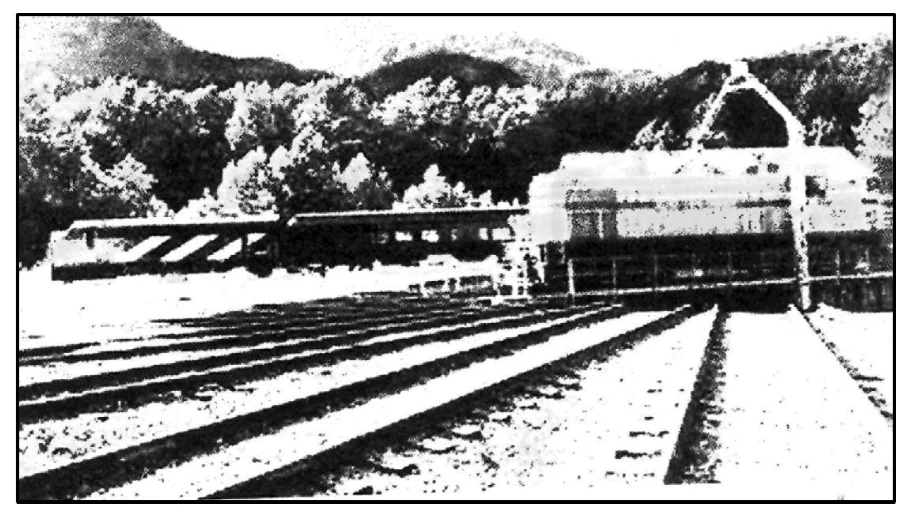
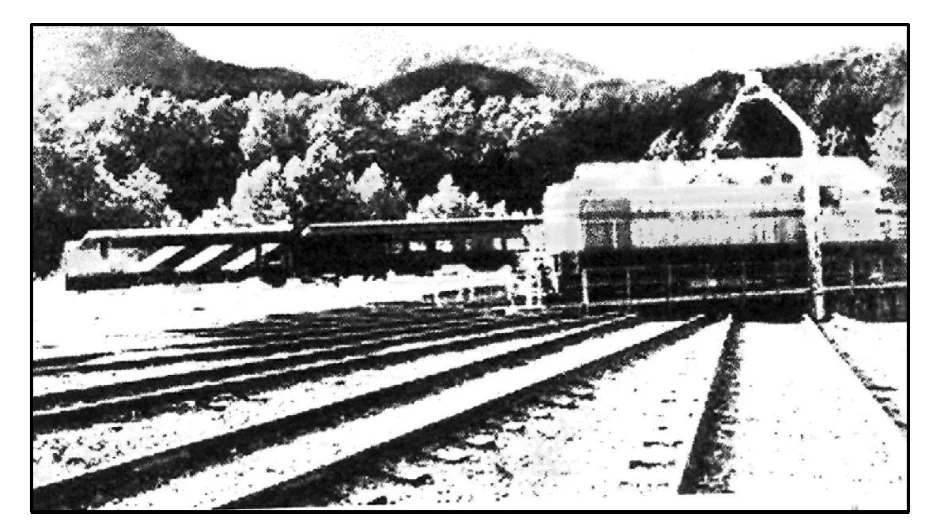
WIP: papers in progress
Claude-Session: https://claude.ai/code/session_01W7XZGjmttugF6fo92Sv419

diff --git a/content/2026/65-3-3.md b/content/2026/65-3-3.md
@@ -1,0 +1,251 @@
+---
+year: 2026
+code: 65/3/3
+series: SR3PQ
+title: CBSE Class XII Board Examination 2026 · Q.P. Code 65/3/3
+questions: 38
+source: Official CBSE question paper and marking scheme
+---
+
+=== 1 = 65/3/1#15
+
+=== 2 = 65/3/1#16
+
+=== 3 | 3d | 1 | mcq
+@topic Direction cosines and ratios
+Direction ratios of lines $l_1$ and $l_2$ respectively are $\langle 1, 0, 0 \rangle$ and $\langle 0, -1, 0 \rangle$. The direction ratios of the line perpendicular to both $l_1$ and $l_2$ are :
+(A) $\langle 1, 1, 0 \rangle$
+(B) $\langle 0, 0, -1 \rangle$
+(C) $\langle 1, 1, 1 \rangle$
+(D) $\langle 1, 0, -1 \rangle$
+--- ans B
+A line perpendicular to both is parallel to $\vec{b}_1 \times \vec{b}_2$ with $\vec{b}_1 = \hat{i}$, $\vec{b}_2 = -\hat{j}$:
+$$\hat{i} \times (-\hat{j}) = -\hat{k}$$
+So the direction ratios are $\langle 0, 0, -1 \rangle$. (Check: $\langle 0, 0, -1 \rangle$ is perpendicular to both given directions; options (A), (C), (D) are not perpendicular to $\langle 1, 0, 0 \rangle$.)
+
+=== 4 = 65/3/1#18
+
+=== 5 | itf | 1 | mcq
+@topic Domain and range
+The domain of $\cos^{-1}(4x + 1)$ is :
+(A) $[-1, 1]$
+(B) $[-3, 5]$
+(C) $[-4, 4]$
+(D) $\left[-\dfrac{1}{2}, 0\right]$
+--- ans D
+The domain of $\cos^{-1}t$ is $[-1, 1]$, so
+$$-1 \le 4x + 1 \le 1 \;\Rightarrow\; -2 \le 4x \le 0 \;\Rightarrow\; -\frac{1}{2} \le x \le 0$$
+Domain $= \left[-\dfrac{1}{2}, 0\right]$.
+
+=== 6 = 65/3/1#2
+
+=== 7 = 65/3/1#3
+
+=== 8 | mat | 1 | mcq
+@topic Operations on matrices
+If a matrix X is such that $\begin{bmatrix} 2 & 1 \end{bmatrix}X = \begin{bmatrix} 3 & 4 & 5 \end{bmatrix}$, then the order of matrix X is :
+(A) $3 \times 1$
+(B) $2 \times 3$
+(C) $1 \times 2$
+(D) $1 \times 3$
+--- ans B
+$\begin{bmatrix} 2 & 1 \end{bmatrix}$ has order $1 \times 2$. For the product to be defined, X must have 2 rows; for the product to be $1 \times 3$, X must have 3 columns.
+$\therefore$ order of X is $2 \times 3$.
+
+=== 9 = 65/3/1#5
+
+=== 10 | det | 1 | mcq
+@topic Properties of |A| and |adj A|
+If $A(\operatorname{adj}A) = \begin{bmatrix} 3 & 0 & 0 \\ 0 & 3 & 0 \\ 0 & 0 & 3 \end{bmatrix}$, then the value of $|2A|$ is :
+(A) $6$
+(B) $54$
+(C) $12$
+(D) $24$
+--- ans D
+$A(\operatorname{adj}A) = |A|\,I = 3I \Rightarrow |A| = 3$, and A is of order 3.
+$$|2A| = 2^3|A| = 8 \times 3 = 24$$
+
+=== 11 = 65/3/1#7
+
+=== 12 | cd | 1 | mcq
+@topic Derivatives of inverse trigonometric functions
+If $2\cos^{-1}x = y$, then $\dfrac{dy}{dx}$ is :
+(A) $-2\sin^{-1}x$
+(B) $-\dfrac{1}{2}\sin\dfrac{y}{2}$
+(C) $\dfrac{-1}{\sqrt{1 - 2x^2}}$
+(D) $-2\operatorname{cosec}\dfrac{y}{2}$
+--- ans D
+$2\cos^{-1}x = y \Rightarrow x = \cos\dfrac{y}{2} \Rightarrow \dfrac{dx}{dy} = -\dfrac{1}{2}\sin\dfrac{y}{2}$.
+$$\therefore \frac{dy}{dx} = \frac{-2}{\sin\frac{y}{2}} = -2\operatorname{cosec}\frac{y}{2}$$
+(Equivalently $\dfrac{dy}{dx} = \dfrac{-2}{\sqrt{1 - x^2}}$.)
+
+=== 13 = 65/3/1#9
+
+=== 14 | int | 1 | mcq
+@topic Integration by substitution
+$\displaystyle\int \frac{\cos x}{\sqrt{\sin^2 x + 1}}\,dx$ is equal to :
+(A) $\tan^{-1}(\sin x) + C$
+(B) $\sin^{-1}(\sin x) + C$
+(C) $\log\left|\sin x + \sqrt{1 + \sin^2 x}\right| + C$
+(D) $\log\left|\sin x - \sqrt{\sin^2 x + 1}\right| + C$
+--- ans C
+Put $\sin x = t \Rightarrow \cos x\,dx = dt$:
+$$\int \frac{dt}{\sqrt{t^2 + 1}} = \log\left|t + \sqrt{t^2 + 1}\right| + C = \log\left|\sin x + \sqrt{1 + \sin^2 x}\right| + C$$
+
+=== 15 = 65/3/1#11
+
+=== 16 = 65/3/1#12
+
+=== 17 = 65/3/1#13
+
+=== 18 = 65/3/1#14
+
+=== 19 = 65/3/1#19
+
+=== 20 = 65/3/1#20
+
+=== 21a = 65/3/1#25a
+
+=== 21b = 65/3/1#25b
+
+=== 22 | cd | 2 | sub
+@topic Parametric differentiation
+If $x = e^{\sin^{-1}t}$ and $y = e^{\cos^{-1}t}$, then find $\dfrac{dy}{dx}$ at $t = \dfrac{1}{\sqrt{2}}$.
+--- ans
+$$\frac{dx}{dt} = e^{\sin^{-1}t}\cdot\frac{1}{\sqrt{1 - t^2}},\qquad \frac{dy}{dt} = e^{\cos^{-1}t}\cdot\frac{-1}{\sqrt{1 - t^2}}$$
+$$\therefore\ \frac{dy}{dx} = \frac{dy/dt}{dx/dt} = -\frac{e^{\cos^{-1}t}}{e^{\sin^{-1}t}}$$
+At $t = \dfrac{1}{\sqrt{2}}$: $\sin^{-1}t = \cos^{-1}t = \dfrac{\pi}{4}$, so
+$$\left(\frac{dy}{dx}\right)_{t = \frac{1}{\sqrt{2}}} = -\frac{e^{\pi/4}}{e^{\pi/4}} = -1$$
+
+=== 23 | aod | 2 | sub
+@topic Increasing and decreasing functions
+Find the sub-interval of $(0, \infty)$ in which $f(x) = x\log x$ is increasing.
+--- ans
+$$f'(x) = \log x + x\cdot\frac{1}{x} = 1 + \log x$$
+$f'(x) = 0 \Rightarrow \log x = -1 \Rightarrow x = \dfrac{1}{e}$, which splits $(0, \infty)$ into $\left(0, \dfrac{1}{e}\right)$ and $\left(\dfrac{1}{e}, \infty\right)$.
+For $0 < x < \dfrac{1}{e}$: $\log x < -1 \Rightarrow f'(x) < 0$ (decreasing).
+For $x > \dfrac{1}{e}$: $\log x > -1 \Rightarrow f'(x) > 0$ (increasing).
+$\therefore f$ is increasing in $\left(\dfrac{1}{e}, \infty\right)$ (or $\left[\dfrac{1}{e}, \infty\right)$).
+
+=== 24a = 65/3/1#23a
+
+=== 24b = 65/3/1#23b
+
+=== 25 = 65/3/1#24
+
+=== 26 = 65/3/1#31
+
+=== 27a = 65/3/1#26a
+
+=== 27b = 65/3/1#26b
+
+=== 28 | int | 3 | sub
+@topic Properties of definite integrals
+Evaluate : $\displaystyle\int_0^{\pi/2} \frac{\sin^2 x}{1 + \sin 2x}\,dx$
+--- ans
+Let $I = \displaystyle\int_0^{\pi/2} \frac{\sin^2 x}{1 + \sin 2x}\,dx \quad\cdots(1)$
+Using $\displaystyle\int_0^a f(x)\,dx = \int_0^a f(a - x)\,dx$, and $\sin 2\left(\frac{\pi}{2} - x\right) = \sin(\pi - 2x) = \sin 2x$:
+$$I = \int_0^{\pi/2} \frac{\cos^2 x}{1 + \sin 2x}\,dx \quad\cdots(2)$$
+Adding (1) and (2):
+$$2I = \int_0^{\pi/2} \frac{dx}{1 + \sin 2x} = \int_0^{\pi/2} \frac{dx}{(\sin x + \cos x)^2} = \int_0^{\pi/2} \frac{\sec^2 x}{(1 + \tan x)^2}\,dx$$
+Put $1 + \tan x = t \Rightarrow \sec^2 x\,dx = dt$; when $x = 0$, $t = 1$; as $x \to \dfrac{\pi}{2}$, $t \to \infty$:
+$$2I = \int_1^{\infty} \frac{dt}{t^2} = \left[-\frac{1}{t}\right]_1^{\infty} = 0 - (-1) = 1$$
+$$\therefore\ I = \frac{1}{2}$$
+
+=== 29a = 65/3/1#28a
+
+=== 29b = 65/3/1#28b
+
+=== 30a | de | 3 | sub
+@topic Homogeneous equations
+Find the general solution of the differential equation $(x^2 - y^2)\,dx + 2xy\,dy = 0$.
+--- ans
+$$\frac{dy}{dx} = \frac{y^2 - x^2}{2xy}$$
+which is homogeneous. Put $y = vx \Rightarrow \dfrac{dy}{dx} = v + x\dfrac{dv}{dx}$:
+$$v + x\frac{dv}{dx} = \frac{v^2 - 1}{2v} \Rightarrow x\frac{dv}{dx} = \frac{v^2 - 1 - 2v^2}{2v} = -\frac{1 + v^2}{2v}$$
+Separating the variables:
+$$\int \frac{2v}{1 + v^2}\,dv = -\int \frac{dx}{x} \Rightarrow \log(1 + v^2) = -\log|x| + \log|C|$$
+$$\Rightarrow x(1 + v^2) = C$$
+Putting $v = \dfrac{y}{x}$: $x\left(1 + \dfrac{y^2}{x^2}\right) = C$, i.e. the general solution is
+$$x^2 + y^2 = Cx$$
+
+=== 30b | de | 3 | sub
+@topic Variable separable
+Solve the differential equation $\sin x\cos y\,dx + \cos x\sin y\,dy = 0$, given that $y = \dfrac{\pi}{4}$ when $x = 0$.
+--- ans
+Dividing by $\cos x\cos y$:
+$$\tan x\,dx + \tan y\,dy = 0 \Rightarrow \int \tan y\,dy = -\int \tan x\,dx$$
+$$\Rightarrow -\log|\cos y| = \log|\cos x| + \log|K| \Rightarrow \log|\cos x\cos y| = -\log|K|$$
+$$\Rightarrow \cos x\cos y = C$$
+Putting $x = 0$, $y = \dfrac{\pi}{4}$: $C = \cos 0\cos\dfrac{\pi}{4} = \dfrac{1}{\sqrt{2}}$.
+$\therefore$ The particular solution is
+$$\cos x\cos y = \frac{1}{\sqrt{2}} \quad\left(\text{or } \sqrt{2}\cos y = \sec x\right)$$
+
+=== 31 = 65/3/1#30
+
+=== 32a = 65/3/1#35a
+
+=== 32b = 65/3/1#35b
+
+=== 33 | rf | 5 | sub
+@topic One-one and onto functions
+Show that a function $f : \mathbb{R}_+ \to A \subset \mathbb{N}$, defined as $f(x) = 4x^2 + 12x + 15$ is one-one. Find set A so that f is onto where $\mathbb{R}_+ = [0, \infty)$. Also, find if there exists $a \in \mathbb{R}_+$ such that $f(a) = 7$. Justify.
+--- ans
+**Note on the question:** as printed, $f$ is not a function into $\mathbb{N}$ — e.g. $f(0.1) = 0.04 + 1.2 + 15 = 16.24 \notin \mathbb{N}$. (The official marking scheme acknowledges this and awards full marks for attempting the question.) Below, the codomain is taken as $A \subset \mathbb{R}$.
+
+**One-one:** Let $x_1, x_2 \in \mathbb{R}_+$ with $f(x_1) = f(x_2)$:
+$$4(x_1^2 - x_2^2) + 12(x_1 - x_2) = 0 \Rightarrow 4(x_1 - x_2)(x_1 + x_2 + 3) = 0$$
+Since $x_1, x_2 \ge 0$, $x_1 + x_2 + 3 > 0$; hence $x_1 = x_2$. So $f$ is **one-one**.
+
+**Set A (range of f):** $f(x) = 4x^2 + 12x + 15 = (2x + 3)^2 + 6$.
+For $x \ge 0$, $2x + 3 \ge 3$, so $f(x) \ge 9 + 6 = 15$, with $f(0) = 15$.
+Conversely, for any $y \ge 15$, $x = \dfrac{\sqrt{y - 6} - 3}{2} \ge 0$ (since $\sqrt{y - 6} \ge 3$) and $f(x) = (\sqrt{y - 6})^2 + 6 = y$.
+$\therefore$ Range of $f = [15, \infty)$, and $f$ is onto when $\boxed{A = [15, \infty)}$.
+
+**f(a) = 7:** $7 < 15$, so $7 \notin$ range of $f$. Indeed,
+$$4a^2 + 12a + 15 = 7 \Rightarrow a^2 + 3a + 2 = 0 \Rightarrow a = -1 \text{ or } a = -2$$
+neither of which belongs to $\mathbb{R}_+$. Hence **no** $a \in \mathbb{R}_+$ exists with $f(a) = 7$.
+
+=== 34 | lpp | 5 | sub
+@topic Graphical method – bounded region
+Solve the following Linear Programming Problem graphically :
+Maximize $Z = 8x + 8y$
+subject to the constraints
+$x - 20 \le 0$
+$2x + 3y \le 120$
+$2x + y \le 60$
+$x \ge 0,\ y \ge 0$
+--- ans
+Draw the lines
+$x = 20$ (parallel to the $y$-axis);
+$2x + 3y = 120$ through $(60, 0)$ and $(0, 40)$;
+$2x + y = 60$ through $(30, 0)$ and $(0, 60)$.
+$(0, 0)$ satisfies all three inequalities, so the feasible region lies on the origin side of each line, in the first quadrant.
+Intersection of $x = 20$ and $2x + y = 60$: $B(20, 20)$.
+Intersection of $2x + y = 60$ and $2x + 3y = 120$: subtracting, $2y = 60 \Rightarrow y = 30,\ x = 15$, i.e. $C(15, 30)$.
+
+```plot
+{"x":[-5,65],"y":[-5,65],"lines":[{"a":1,"b":0,"c":20,"label":"x = 20"},{"a":2,"b":3,"c":120,"label":"2x + 3y = 120"},{"a":2,"b":1,"c":60,"label":"2x + y = 60"}],"polygons":[{"pts":[[0,0],[20,0],[20,20],[15,30],[0,40]],"label":"Feasible region"}],"points":[{"x":0,"y":0,"label":"O(0, 0)"},{"x":20,"y":0,"label":"A(20, 0)"},{"x":20,"y":20,"label":"B(20, 20)"},{"x":15,"y":30,"label":"C(15, 30)"},{"x":0,"y":40,"label":"D(0, 40)"}]}
+```
+
+The feasible region OABCD is bounded.
+
+| Corner point | $Z = 8x + 8y$ |
+|---|---|
+| $O(0, 0)$ | $0$ |
+| $A(20, 0)$ | $160$ |
+| $B(20, 20)$ | $320$ |
+| $C(15, 30)$ | $360$ ← maximum |
+| $D(0, 40)$ | $320$ |
+
+$\therefore$ Maximum $Z = 360$ at $x = 15,\ y = 30$.
+
+=== 35a = 65/3/1#34a
+
+=== 35b = 65/3/1#34b
+
+=== 36 = 65/3/1#38
+
+=== 37 = 65/3/1#36
+
+=== 38 = 65/3/1#37
